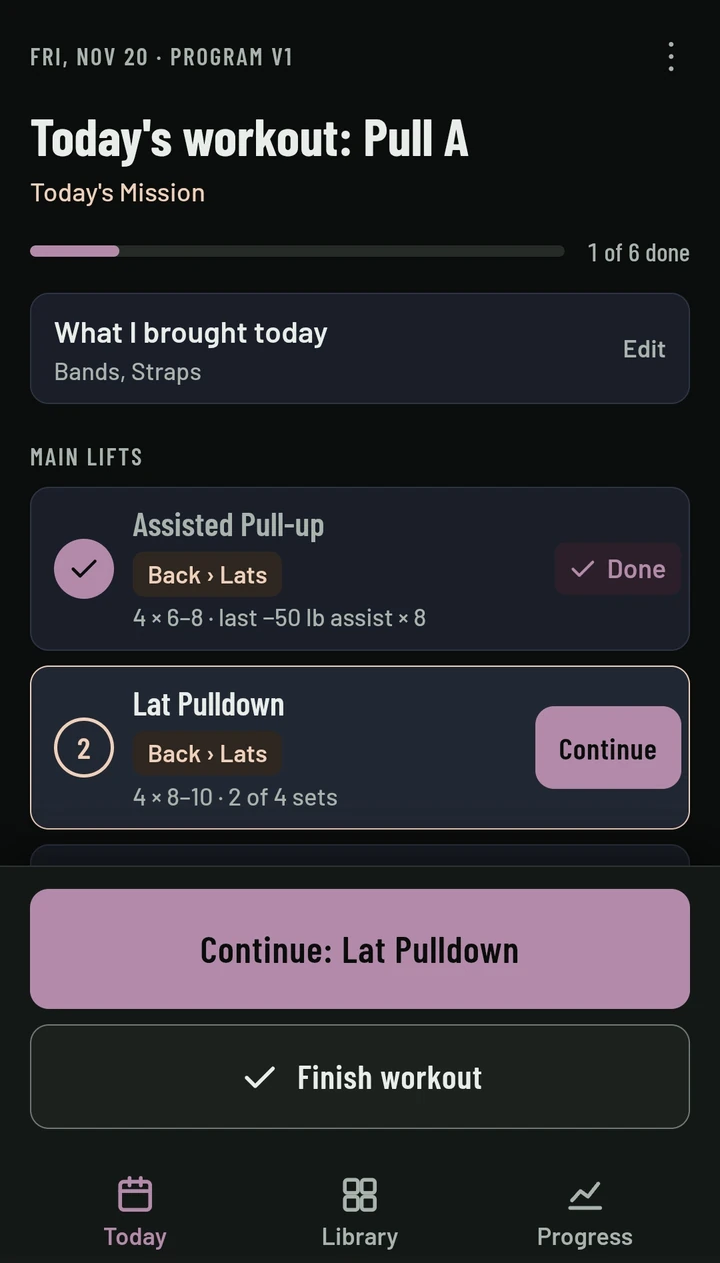
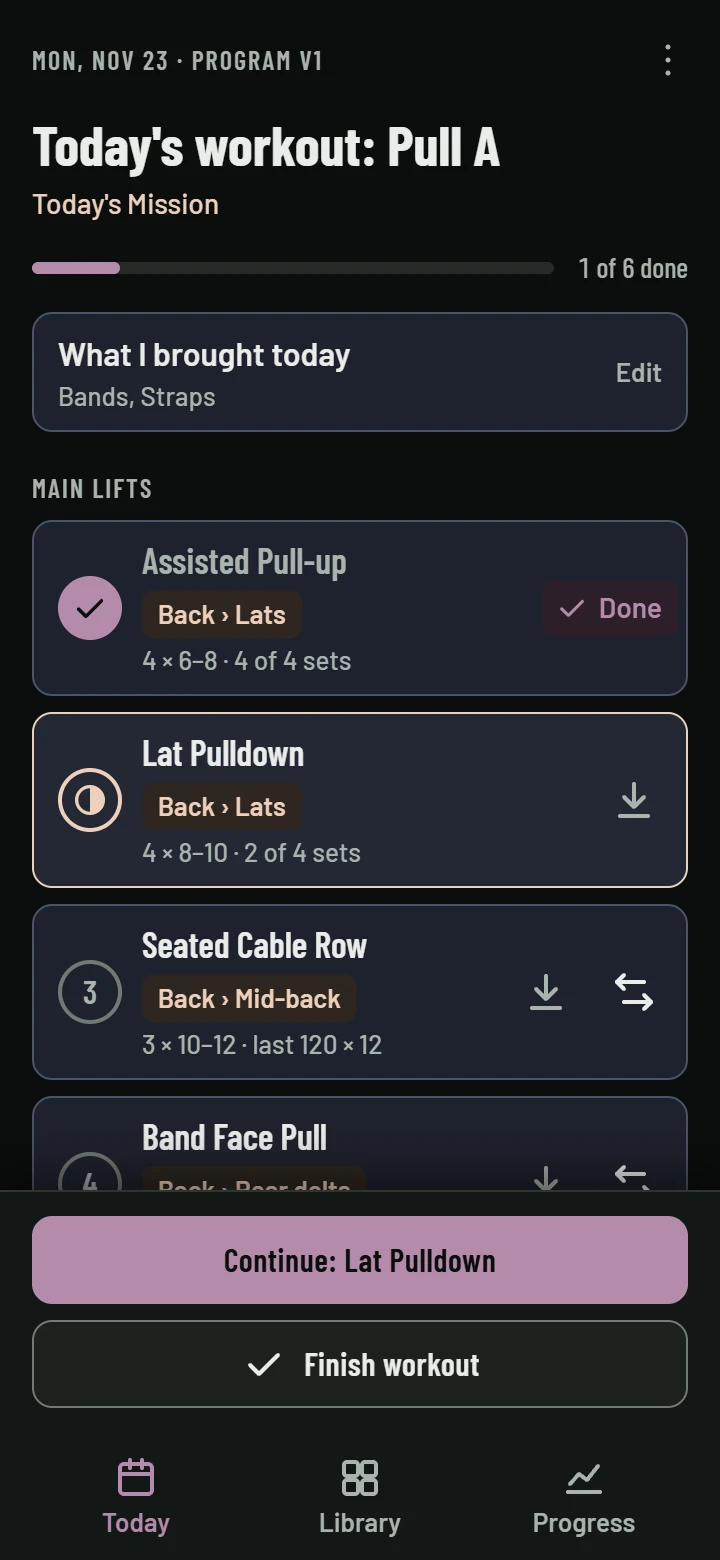
Regenerate the README screenshots in the browser for the current UI
npm run screenshots now makes the nine README images itself: same scenes,
file names and captions, from demo data in headless Edge at 360 x 780,
saved 720 px wide as WebP (encoded by the browser, no image library).
Scenes: Today top and scrolled to the swap and the gear alternative
(Dark, Plum); the swap sheet, now opened from Seated Cable Row's page in
the pager; Today top and bottom, Library, Progress top, chart and
calendar (Light, Blue). Today rows have no per-row Continue any more.

Each image checked by eye. README: two alt texts match what is now shown
(1 of 5 sessions; swap sheet from the pager) and the note says how the
images are made instead of "from the phone".

diff --git a/README.md b/README.md
@@ -7,7 +7,7 @@ A self-hosted workout tracker for training hard within injury limits. FastAPI + 
   <tr>
     <td align="center" width="33%"><a href="docs/screenshots/today-plum-dark.webp"><img src="docs/screenshots/today-plum-dark.webp" width="240" alt="Today's workout in the Dark theme with the Plum accent: one exercise done, one in progress, Continue and Finish workout buttons"></a><br><b>Today's workout</b><br><sub>Dark theme, Plum (Toji) accent</sub></td>
     <td align="center" width="33%"><a href="docs/screenshots/today-swaps.webp"><img src="docs/screenshots/today-swaps.webp" width="240" alt="Today's list with a swapped exercise, Band Face Pull, Hammer Curl and a gear-based alternative"></a><br><b>Swaps and gear</b><br><sub>Swapped exercises and the next ones</sub></td>
-    <td align="center" width="33%"><a href="docs/screenshots/swap-sheet.webp"><img src="docs/screenshots/swap-sheet.webp" width="240" alt="Swap sheet for Seated Cable Row listing substitutions and same-muscle options with last weights"></a><br><b>Swap an exercise</b><br><sub>Your substitutions, then same muscle</sub></td>
+    <td align="center" width="33%"><a href="docs/screenshots/swap-sheet.webp"><img src="docs/screenshots/swap-sheet.webp" width="240" alt="Swap sheet for Seated Cable Row, opened from its page in the exercise pager, listing substitutions and same-muscle options with last weights"></a><br><b>Swap an exercise</b><br><sub>Your substitutions, then same muscle</sub></td>
   </tr>
   <tr>
     <td align="center" width="33%"><a href="docs/screenshots/today-blue-light.webp"><img src="docs/screenshots/today-blue-light.webp" width="240" alt="Today's workout in the Light theme with the Blue accent"></a><br><b>Light theme</b><br><sub>Blue (Six Eyes) accent</sub></td>
@@ -15,13 +15,13 @@ A self-hosted workout tracker for training hard within injury limits. FastAPI + 
     <td align="center" width="33%"><a href="docs/screenshots/library.webp"><img src="docs/screenshots/library.webp" width="240" alt="Exercise library with search, filters and the Back region expanded to Lats, with grade badges"></a><br><b>Exercise library</b><br><sub>By body region and muscle</sub></td>
   </tr>
   <tr>
-    <td align="center" width="33%"><a href="docs/screenshots/progress.webp"><img src="docs/screenshots/progress.webp" width="240" alt="Progress: 4 of 5 sessions, 150 of 345 cardio minutes, and the bodyweight tab"></a><br><b>Progress</b><br><sub>Sessions, cardio and bodyweight</sub></td>
+    <td align="center" width="33%"><a href="docs/screenshots/progress.webp"><img src="docs/screenshots/progress.webp" width="240" alt="Progress: 1 of 5 sessions this week, 150 of 345 cardio minutes, and the bodyweight chart"></a><br><b>Progress</b><br><sub>Sessions, cardio and bodyweight</sub></td>
     <td align="center" width="33%"><a href="docs/screenshots/progress-chart.webp"><img src="docs/screenshots/progress-chart.webp" width="240" alt="Bodyweight chart for October with a dashed goal line at 185, and sets per muscle group this week"></a><br><b>Bodyweight and sets</b><br><sub>Goal line, sets per muscle group</sub></td>
     <td align="center" width="33%"><a href="docs/screenshots/progress-calendar.webp"><img src="docs/screenshots/progress-calendar.webp" width="240" alt="November calendar with done, cardio and recovery days, the legend, and a recent personal record"></a><br><b>Calendar and records</b><br><sub>Done, cardio, recovery and PRs</sub></td>
   </tr>
 </table>
 
-Click any screenshot to see it full size. Screenshots are from the phone (Galaxy S23, Brave) in the app's demo mode: a made-up program and history, never real data. They are cropped to the app, with the browser bar removed. `npm --prefix frontend run screenshots` makes a matching set from the demo data in headless Edge.
+Click any screenshot to see it full size. The screenshots use the app's demo mode: a made-up program and history, never real data. `npm --prefix frontend run screenshots` makes all nine in headless Edge or Chrome at the phone's size (360 × 780, saved 720 px wide as WebP).
 
 ## How it's built
 - **Design:** the screens and the design system (`design-system/`, `docs/DESIGN.md`) were designed in claude.ai.

diff --git a/CHANGELOG.md b/CHANGELOG.md
@@ -44,6 +44,9 @@ change how things work.
   the icon's source file) and the compact bottom-bar buttons on Today.
 
 ### Changed
+- The README screenshots are made in the browser from the demo data by `npm run screenshots`
+  (same nine scenes, file names and captions, 720 px wide WebP) and show the current app: Today
+  rows open the pager, and the swap sheet opens from an exercise's page in the pager.
 - Cards stand out from the page in both themes: a slightly deeper card color in Light (#e6e9f1,
   raised #dde2eb) and a lighter one in Dark (#1e222d), with a much stronger card outline
   (#a7b0c0 Light, #4a5368 Dark). The raised Dark card stays as it was, because a lighter one would
